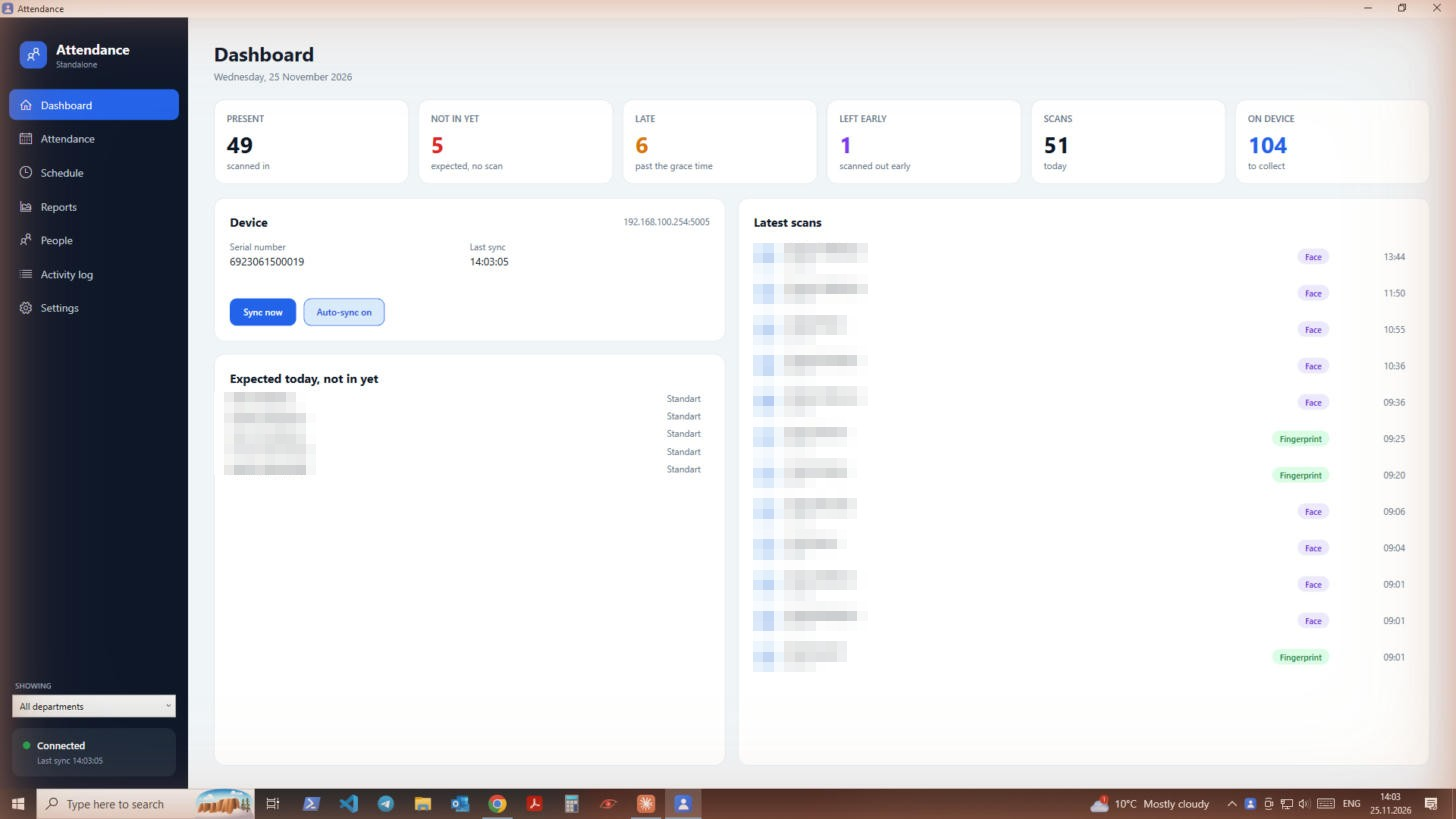
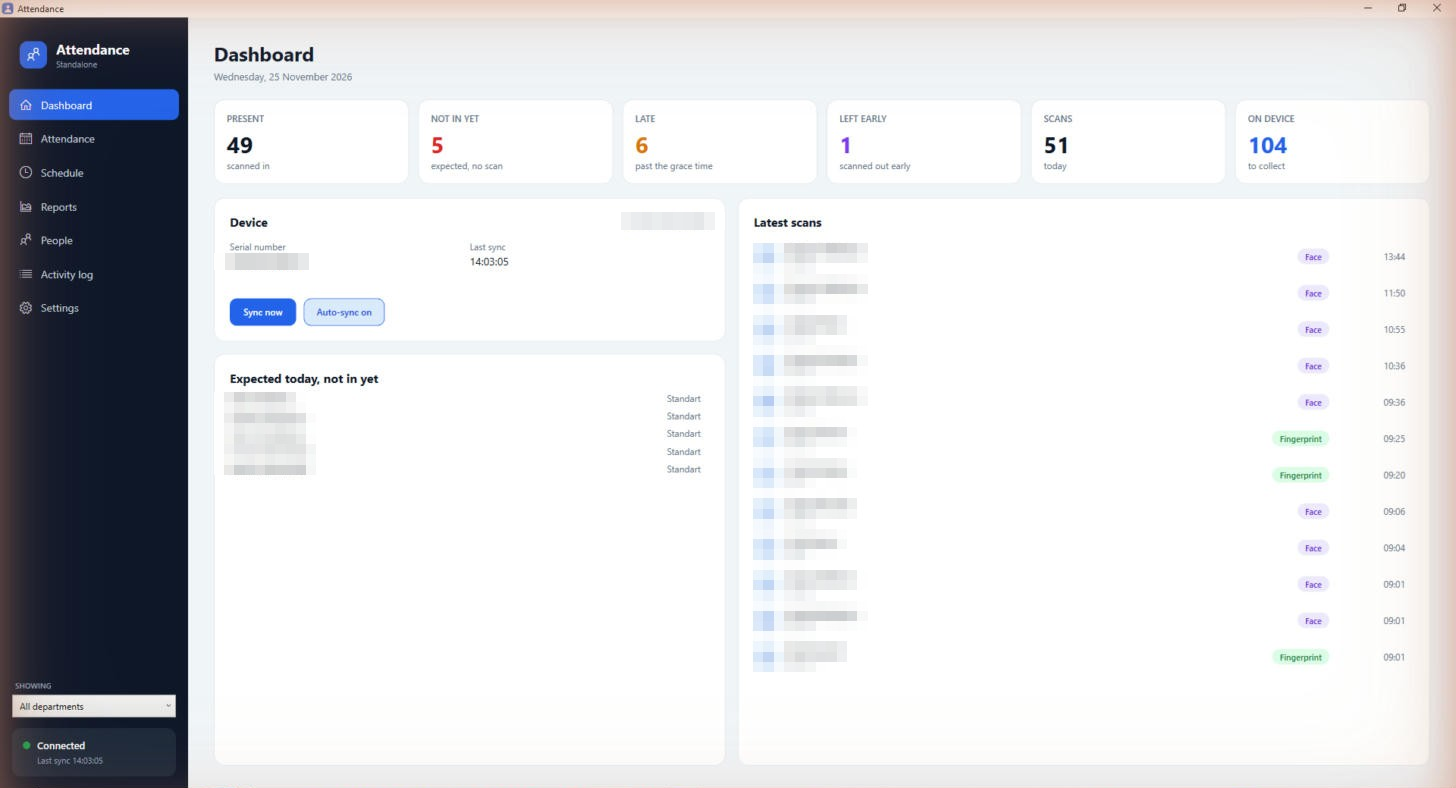
Prepare repo for public review: remove company-specific details
Strips the office's device IP, machine username and install path, and
device serial number from README.md, AppSettings.cs, the service
setup script and WEB-SETUP.md. DeviceIp now defaults to empty, with a
clear "no device set" message on both the desktop and web dashboards
and a hint in Settings, instead of a baked-in address.

Redacts the device IP, serial number and scan-list avatar initials in
the docs/ screenshots, and crops the Windows taskbar out of the
desktop app screenshots.

Rewrites the top of README.md with a one-line description, why and
how it was built (including the AI-assisted protocol work, verified
against captured real traffic), and a non-affiliation disclaimer.

diff --git a/src/App/MainWindow.xaml b/src/App/MainWindow.xaml
@@ -379,6 +379,7 @@
                                 <StackPanel>
                                     <TextBlock Text="Device IP address" Style="{StaticResource Label}" Margin="0,0,0,4"/>
                                     <TextBox x:Name="SetIp"/>
+                                    <TextBlock Text="The terminal's address on your local network, e.g. 192.168.1.50" Style="{StaticResource Label}" FontSize="11" Margin="0,4,0,0" TextWrapping="Wrap"/>
                                 </StackPanel>
                                 <StackPanel Grid.Column="2">
                                     <TextBlock Text="Port" Style="{StaticResource Label}" Margin="0,0,0,4"/>

diff --git a/src/App/MainWindow.xaml.cs b/src/App/MainWindow.xaml.cs
@@ -560,7 +560,9 @@ public partial class MainWindow : Window
             ? Loc.T("No schedule yet. Import from the original software (Settings) or assign shifts in Schedule.")
             : notIn.Count == 0 ? Loc.T("Everyone expected today has scanned in.") : "";
 
-        DeviceAddress.Text = $"{_settings.DeviceIp}:{_settings.DevicePort}";
+        DeviceAddress.Text = string.IsNullOrWhiteSpace(_settings.DeviceIp)
+            ? Loc.T("No device set — enter its address in Settings")
+            : $"{_settings.DeviceIp}:{_settings.DevicePort}";
         DeviceSerial.Text = _serial.Length > 0 ? _serial : "—";
         DeviceLastSync.Text = _lastSync is { } t ? t.ToString("HH:mm:ss", CultureInfo.InvariantCulture) : "—";
         SidebarSync.Text = _lastSync is { } s ? Loc.F("Last sync {0:HH:mm:ss}", s) : Loc.T("Not synced yet");

diff --git a/src/Core/AppSettings.cs b/src/Core/AppSettings.cs
@@ -21,7 +21,7 @@ public static class AppPaths
 public sealed class AppSettings
 {
     public string Language { get; set; } = "en";
-    public string DeviceIp { get; set; } = "192.168.100.254";
+    public string DeviceIp { get; set; } = "";
     public int DevicePort { get; set; } = 5005;
     public int SyncIntervalSeconds { get; set; } = 60;
     public TimeSpan WorkStart { get; set; } = new(9, 0, 0);

diff --git a/src/Core/DeviceSync.cs b/src/Core/DeviceSync.cs
@@ -105,6 +105,9 @@ public sealed class DeviceSync
 
     private DeviceClient Open(bool trace)
     {
+        if (string.IsNullOrWhiteSpace(_settings.DeviceIp))
+            throw new InvalidOperationException("No device address set. Enter the terminal's IP address in Settings.");
+
         var dev = new DeviceClient(_settings.DeviceIp, _settings.DevicePort) { Trace = trace };
         try
         {

diff --git a/README.md b/README.md
@@ -1,8 +1,24 @@
 # Attendance (Gozcu PDKS standalone)
 
-An independent attendance system for the face and fingerprint terminal at `192.168.100.254:5005`, replacing the
-Gozcu PDKS software. It talks to the terminal directly over its own TCP protocol (reverse-engineered from PDKS)
-and keeps its data in a local SQLite database.
+An independent attendance system for a face and fingerprint terminal, talking to it directly instead of through
+the vendor's own software.
+
+## Why I built it
+
+The vendor software (Gozcu PDKS) clears scans off the device as it reads them and locks the company into its own
+program: no API, no export it can share, nothing else can read the terminal without racing it for the same data.
+So I reverse-engineered the terminal's own protocol and built a system that talks to it directly, keeps its own
+database, and gives the company a desktop app, a web app with roles, and a CLI — independent of the vendor's
+software, able to run alongside it or replace it.
+
+## How I built it with AI
+
+I captured real traffic between the vendor app and the terminal, then used Claude Code to help decode the frames
+and write the protocol code from that capture. Nothing was trusted until it worked against the real device:
+`gozcu selftest` replays the captured bytes through the code and checks the result matches, so a change to the
+frame handling is caught before it ever reaches the terminal.
+
+*Not affiliated with Gozcu. Built for interoperability with a device we own. No vendor code is included.*
 
 ## Projects
 

diff --git a/WEB-SETUP.md b/WEB-SETUP.md
@@ -26,13 +26,13 @@ From other computers in the office use `http://<this PC's IP>:5080` (Windows ask
 Edit `dist\web\appsettings.json` and set the database path, because a service runs under a different account:
 
 ```json
-"DatabasePath": "C:\\Users\\IdeaDesktop5\\AppData\\Local\\GozcuStandalone\\attendance.db"
+"DatabasePath": "C:\\Users\\<user>\\AppData\\Local\\GozcuStandalone\\attendance.db"
 ```
 
 Then, in an administrator PowerShell:
 
 ```powershell
-sc.exe create AttendanceWeb binPath= "C:\Users\IdeaDesktop5\Desktop\Work related\GozcuStandalone\dist\web\AttendanceWeb.exe" start= auto
+sc.exe create AttendanceWeb binPath= "<install folder>\GozcuStandalone\dist\web\AttendanceWeb.exe" start= auto
 sc.exe start AttendanceWeb
 ```
 
